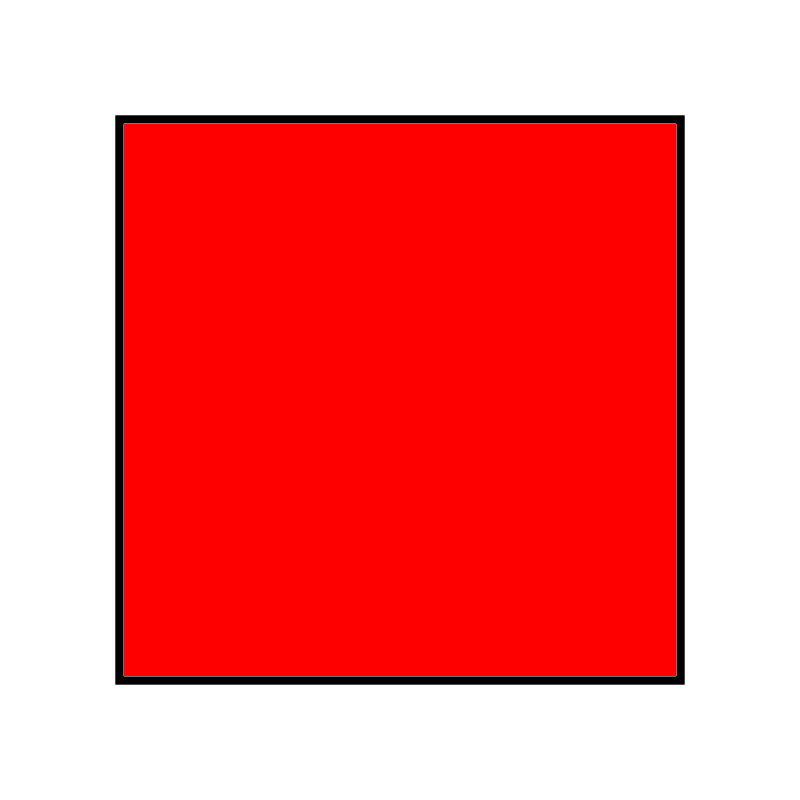
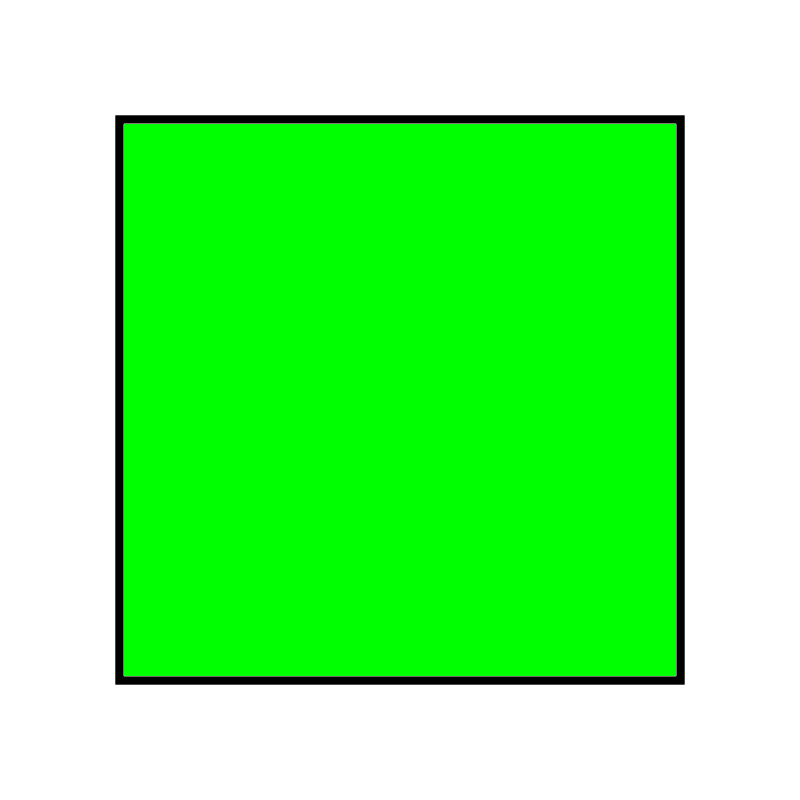
Animação

diff --git a/ImageManager.java b/ImageManager.java
@@ -2,9 +2,33 @@ import java.awt.image.BufferedImage;
 import java.io.File;
 import java.io.IOException;
 import javax.imageio.ImageIO;
-
+import javax.swing.JFrame;
+import javax.swing.JPanel;
+import java.awt.Graphics;
 
 public class ImageManager {
+    private static JFrame frame;
+    private static JPanel panel;
+    
+    public static void displayImage(BufferedImage image){
+        if (frame == null) {
+            frame = new JFrame("Animação de Flood Fill");
+            panel = new JPanel() {
+                @Override
+                protected void paintComponent(Graphics g) {
+                    super.paintComponent(g);
+                    g.drawImage(image, 0, 0, null);
+                }
+            };
+            frame.add(panel);
+            frame.setSize(image.getWidth(), image.getHeight());
+            frame.setDefaultCloseOperation(JFrame.EXIT_ON_CLOSE);
+            frame.setVisible(true);
+        }else{
+            panel.repaint();
+        }
+    }
+
     public static BufferedImage loadImage(String filePath) {
         try {
             return ImageIO.read(new File(filePath));
@@ -23,26 +47,26 @@ public class ImageManager {
         }
     }
 
-    public static void saveIntermediateImage(BufferedImage image, String fileName) throws IOException {
+    public static void saveTransitionImage(BufferedImage image, String fileName) throws IOException {
         try {
-            File output = new File("transitions", fileName);
-    
+            File output = new File("transitions", fileName);  
+            output.getParentFile().mkdirs(); 
             ImageIO.write(image, "png", output);
-            System.out.println("Imagem intermediária salva em: " + output.getAbsolutePath());
-        } catch (Exception e) {
-            System.out.println("Erro: " + e.getMessage());
+            displayImage(image); 
+        } catch (IOException e) {
+            System.out.println("Erro ao salvar imagem intermediária: " + e.getMessage());
         }
     }
     
 
     public static void saveFinalImage(BufferedImage image, String fileName) throws IOException {
-        try{
-            File outputFile = new File("assets/" + fileName);
+        try {
+            File outputFile = new File("assets", fileName); 
+            outputFile.getParentFile().mkdirs();  
             ImageIO.write(image, "png", outputFile);
-            System.out.println("Imagem final salva em: " + fileName);
-        }
-        catch (Exception e){
-            System.out.println("Erro: " + e.getMessage());
+            System.out.println("Imagem final salva em: " + outputFile.getPath());
+        } catch (IOException e) {
+            System.out.println("Erro ao salvar imagem final: " + e.getMessage());
         }
     }
 

diff --git a/FloodFill.java b/FloodFill.java
@@ -20,11 +20,13 @@ public class FloodFill {
         if (x < 0 || x >= width || y < 0 || y >= height) {
             return false; 
         }
+
+
         return image.getRGB(x, y) == initColour;
     }
 
 
-    public void fillWithStack(int initX, int initY, int newColour, int transitionImg) throws IOException{
+    public void fillWithStack(int initX, int initY, int newColour, int transitionImg, int transitionInterval) throws IOException{
         int initColour = image.getRGB(initX, initY);
 
         Stack<int[]> stack = new Stack<>();
@@ -48,8 +50,8 @@ public class FloodFill {
                 stack.push(new int[] { x, y + 1 });
                 stack.push(new int[] { x, y - 1 });
 
-                if (pixelsModified % transitionImg == 0) {
-                    ImageManager.saveIntermediateImage(image, "output_transition" + pixelsModified + ".png");
+                if (pixelsModified % transitionInterval == 0) {
+                    ImageManager.saveTransitionImage(image, "output_transition_" + pixelsModified + ".png");
                 }
     
             }

diff --git a/Main.java b/Main.java
@@ -4,11 +4,6 @@ public class Main {
 
     public static void main(String[] args) {
         ImageManager.clearFolder();
-        try {
-            FloodFill floodFill = new FloodFill("assets/input.png");
-            floodFill.fillWithStack(400, 250, 0xFFFF0000, 15000); 
-        } catch (IOException e) {
-            e.printStackTrace();
-        }
+
     }
 }
